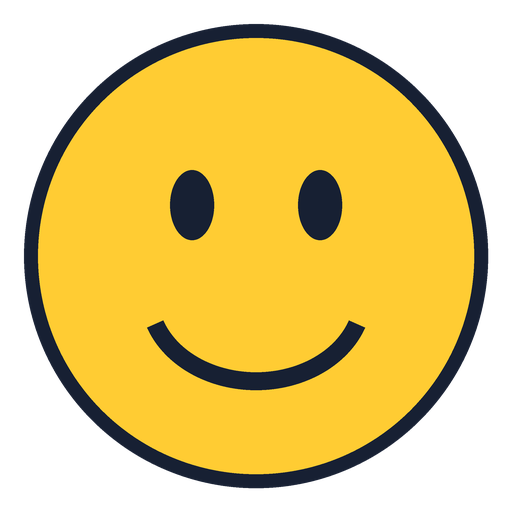
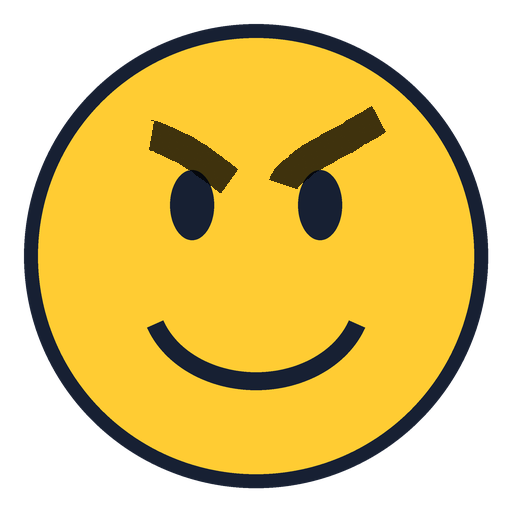
Add Name

Changed region(s): [[0.5312, 0.1875, 0.75, 0.375], [0.2812, 0.2188, 0.4688, 0.375]]

diff --git a/index.html b/index.html
@@ -6,7 +6,7 @@
 </head>
 <body style="font-family: sans-serif; text-align: center;">
 
-  <h1>Hello! I'm [your name]</h1>
+  <h1>Hello! I'm Austin</h1>
 
   <p>This is my first web page, made with GitHub Pages.</p>
 
